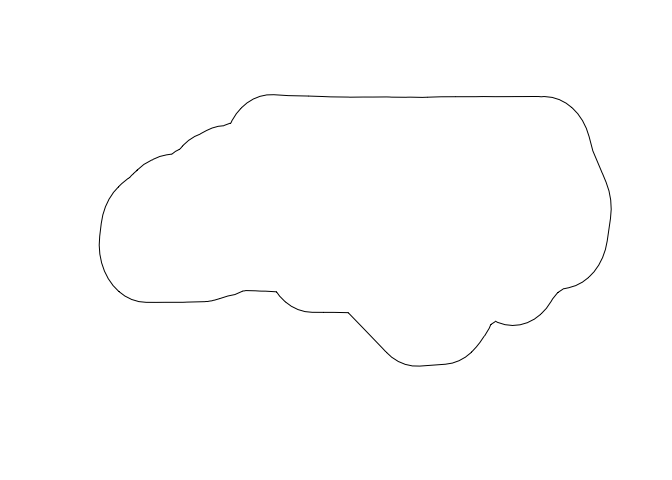
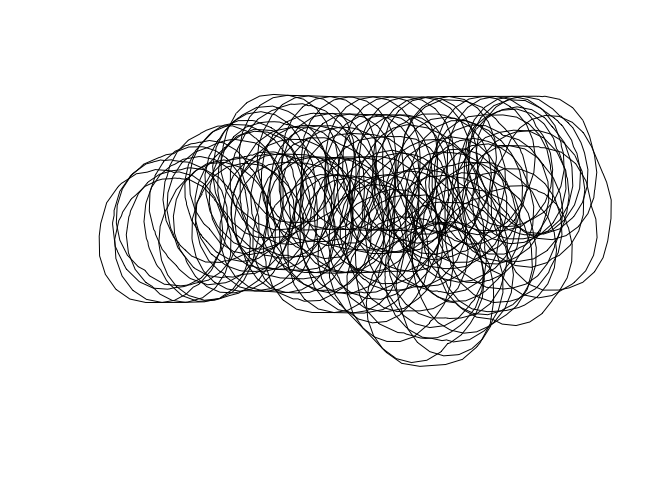
make sure readme runs

Changed region(s): [[0.125, 0.1875, 0.9062, 0.7812]]

diff --git a/README.md b/README.md
@@ -59,45 +59,18 @@ result <- qgis_run_algorithm(
   "native:buffer",
   INPUT = input,
   DISTANCE = 1,
-  SEGMENTS = 10,
-  DISSOLVE = TRUE,
-  END_CAP_STYLE = 0,
-  JOIN_STYLE = 0,
-  MITER_LIMIT = 10,
-  OUTPUT = qgis_tmp_vector()
+  .quiet = TRUE
 )
-#> Running /Applications/QGIS.app/Contents/MacOS/bin/qgis_process run \
-#>   'native:buffer' \
-#>   '--INPUT=/var/folders/bq/2rcjstv90nx1_wrt8d3gqw6m0000gn/T//RtmpZfnsJA/file11f8e53c6f6ae/file11f8e12aabbdc.gpkg' \
-#>   '--DISTANCE=1' '--SEGMENTS=10' '--DISSOLVE=TRUE' '--END_CAP_STYLE=0' \
-#>   '--JOIN_STYLE=0' '--MITER_LIMIT=10' \
-#>   '--OUTPUT=/var/folders/bq/2rcjstv90nx1_wrt8d3gqw6m0000gn/T//RtmpZfnsJA/file11f8e53c6f6ae/file11f8e2b6d447a.gpkg'
-#> 
-#> ----------------
-#> Inputs
-#> ----------------
-#> 
-#> DISSOLVE:    TRUE
-#> DISTANCE:    1
-#> END_CAP_STYLE:   0
-#> INPUT:   /var/folders/bq/2rcjstv90nx1_wrt8d3gqw6m0000gn/T//RtmpZfnsJA/file11f8e53c6f6ae/file11f8e12aabbdc.gpkg
-#> JOIN_STYLE:  0
-#> MITER_LIMIT: 10
-#> OUTPUT:  /var/folders/bq/2rcjstv90nx1_wrt8d3gqw6m0000gn/T//RtmpZfnsJA/file11f8e53c6f6ae/file11f8e2b6d447a.gpkg
-#> SEGMENTS:    10
-#> 
-#> 
-#> 0...10...20...30...40...50...60...70...80...90...
-#> ----------------
-#> Results
-#> ----------------
-#> 
-#> OUTPUT:  /var/folders/bq/2rcjstv90nx1_wrt8d3gqw6m0000gn/T//RtmpZfnsJA/file11f8e53c6f6ae/file11f8e2b6d447a.gpkg
+#> Argument `END_CAP_STYLE` is unspecified (using QGIS default value).
+#> Argument `JOIN_STYLE` is unspecified (using QGIS default value).
+#> Argument `MITER_LIMIT` is unspecified (using QGIS default value).
+#> Argument `DISSOLVE` is unspecified (using QGIS default value).
+#> Using `OUTPUT = qgis_tmp_vector()`
 
 result
 #> <Result of `qgis_run_algorithm("native:buffer", ...)`>
 #> List of 1
-#>  $ OUTPUT: 'qgis_outputVector' chr "/var/folders/bq/2rcjstv90nx1_wrt8d3gqw6m0000gn/T//RtmpZfnsJA/file11f8e53c6f6ae/file11f8e2b6d447a.gpkg"
+#>  $ OUTPUT: 'qgis_outputVector' chr "/var/folders/bq/2rcjstv90nx1_wrt8d3gqw6m0000gn/T//RtmpMYi0Xp/file163e81a949b13/file163e86695af6.gpkg"
 
 output_sf <- sf::read_sf(qgis_output(result, "OUTPUT"))
 plot(sf::st_geometry(output_sf))
